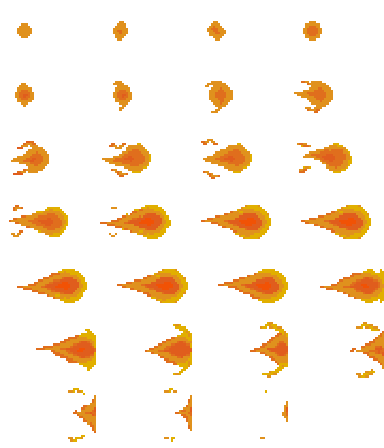
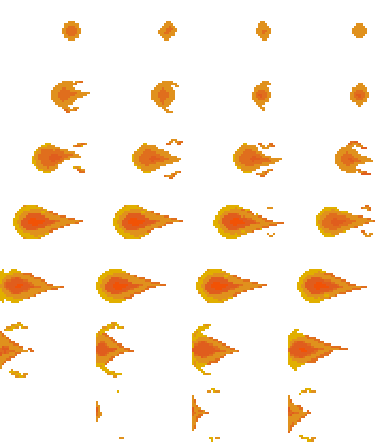
prep for merge

diff --git a/src/main.rs b/src/main.rs
@@ -187,6 +187,8 @@ impl Game for ROGUELIKE {
 
 			// Should be switched to take in array of active fireballs, bullets, etc.
 			self.update_projectiles(&mut fireball);
+
+			// UPDATE PLAYER
 			self.draw_player(&count, &f_display, &mut player, &cur_bg);
 			count = count + 1;
 			if count > f_display * 5 {
@@ -331,7 +333,7 @@ impl ROGUELIKE {
 		// shoot fireball
 		if keystate.contains(&Keycode::F) && fireball.frame() == 0 {
 			fireball.set_use(true);
-			fireball.start_pos(player.x(), player.y(), player.facing_right);
+			fireball.start_pos(player.get_cam_pos().x(), player.get_cam_pos().y(), player.facing_right);
 		}
 	}
 
@@ -346,7 +348,7 @@ impl ROGUELIKE {
 				fireball.set_frame(0);
 			}
 			// this needs to be mirrored
-			self.core.wincan.copy(fireball.texture(), fireball.src(4, 7), fireball.pos()).unwrap();
+			self.core.wincan.copy_ex(fireball.texture(), fireball.src(4, 7), fireball.pos(), 0.0, None, fireball.facing_right, false).unwrap();
 		}
 	}
 
@@ -354,27 +356,19 @@ impl ROGUELIKE {
 	// check collisions
 	fn check_collisions(player: &mut Player, enemies: &mut Vec<Enemy>) {
 		for enemy in enemies {
-			if check_collision(&player.pos(), &enemy.pos())
-			{
+			if check_collision(&player.pos(), &enemy.pos()) {
 				player.minus_hp(5.0);
 				//println!("Health: {}", player.get_hp()); //for debugging
 			}
 
-			if check_collision(&player.pos(), &enemy.pos())
-			{
-				player.minus_hp(5.0);
-				//println!("Health: {}", player.get_hp()); //for debugging
-			}
-			if player.is_attacking
-			{
-				if check_collision(&player.get_attack_box(), &enemy.pos())
-				{
+			if player.is_attacking {
+				if check_collision(&player.get_attack_box(), &enemy.pos()) {
 					enemy.knockback(player.x().into(), player.y().into(), XBOUNDS, YBOUNDS);
 					enemy.minus_hp(1.0);
 				}
 			}
 		}
-		//player.set_invincible_f()
+		player.set_invincible();
 	}
 
 	// update player
@@ -435,31 +429,15 @@ impl ROGUELIKE {
 	pub fn draw_player(&mut self, count: &i32, f_display: &i32, player: &mut Player, cur_bg: &Rect) {
 		player.set_cam_pos(cur_bg.x(), cur_bg.y());
 
-		// I think it looks better when doing this constantly, we can keep 
+		// I think it looks better when doing animation constantly, we can keep 
 		// the if statement if we decide to add a specific moving animation
 
 		//if !player.is_still {
-			//display animation when not moving
-			if count < &f_display { player.set_src(0 as i32, 0 as i32); }
-			else if count < &(f_display * 2) { player.set_src(64 as i32, 0 as i32); }
-			else if count < &(f_display * 3) { player.set_src(128 as i32, 0 as i32); }
-			else if count < &(f_display * 4) { player.set_src(0 as i32, 64 as i32); }
-			else if count < &(f_display * 5) { player.set_src(64 as i32, 64 as i32); }
-			else if count < &(f_display * 6) { player.set_src(128 as i32, 64 as i32); }
-			else if count < &(f_display * 7) { player.set_src(0 as i32, 128 as i32); }
-			else if count < &(f_display * 8) { player.set_src(64 as i32, 128 as i32); }
-			else if count < &(f_display * 9) { player.set_src(128 as i32, 128 as i32); }
-			else if count < &(f_display * 10) { player.set_src(0 as i32, 192 as i32); }
-			else if count < &(f_display * 11) { player.set_src(64 as i32, 192 as i32); }
-			else if count < &(f_display * 12) { player.set_src(128 as i32, 192 as i32); }
-			else { player.set_src(0, 0); }
-
-			self.core.wincan.copy_ex(player.texture_all(), player.src(), player.get_cam_pos(), 0.0, None, player.facing_right, false).unwrap();
+			player.get_frame_display(count, f_display);
 		/*} else {
 			player.set_src(0, 0);
-			self.core.wincan.copy_ex(player.texture_all(), player.src(), player.get_cam_pos(), 0.0, None, player.facing_right, false).unwrap();
 		}*/
-		//println!("\nx:{} y:{} ", player.x(), player.y());
+		self.core.wincan.copy_ex(player.texture_all(), player.src(), player.get_cam_pos(), 0.0, None, player.facing_right, false).unwrap();
 	}
 
 

diff --git a/src/player.rs b/src/player.rs
@@ -7,7 +7,7 @@ use sdl2::render::Texture;
 const TILE_SIZE: u32 = 64;
 const ATTACK_LENGTH: u32 = TILE_SIZE * 3 / 2;
 const COOLDOWN: u128 = 250;
-const DMG_COOLDOWN: u128 = 1000;
+const DMG_COOLDOWN: u128 = 800;
 
 pub struct Player<'a> {
 	pos: (i32, i32),
@@ -21,6 +21,7 @@ pub struct Player<'a> {
 	attack_timer: Instant,
 	damage_timer: Instant,
 	texture_all: Texture<'a>,
+	invincible: bool, 
 	pub facing_right: bool,
 	pub is_still: bool,
 	pub hp: f32,
@@ -47,6 +48,7 @@ impl<'a> Player<'a> {
 		let attack_box = Rect::new(0, 0, TILE_SIZE, TILE_SIZE);
 		let attack_timer = Instant::now();
 		let damage_timer = Instant::now();
+		let invincible = true;
 		Player {
 			pos,
 			cam_pos,
@@ -58,6 +60,7 @@ impl<'a> Player<'a> {
 			attack_box,
 			attack_timer,
 			damage_timer,
+			invincible, 
 			texture_all,
 			facing_right,
 			is_still,
@@ -124,6 +127,22 @@ impl<'a> Player<'a> {
 
 	pub fn src(&self) -> Rect {
 		self.src
+	}
+
+	pub fn get_frame_display(&mut self, count: &i32, f_display: &i32) {
+		if count < &f_display { self.set_src(0 as i32, 0 as i32); }
+		else if count < &(f_display * 2) { self.set_src(64 as i32, 0 as i32); }
+		else if count < &(f_display * 3) { self.set_src(128 as i32, 0 as i32); }
+		else if count < &(f_display * 4) { self.set_src(0 as i32, 64 as i32); }
+		else if count < &(f_display * 5) { self.set_src(64 as i32, 64 as i32); }
+		else if count < &(f_display * 6) { self.set_src(128 as i32, 64 as i32); }
+		else if count < &(f_display * 7) { self.set_src(0 as i32, 128 as i32); }
+		else if count < &(f_display * 8) { self.set_src(64 as i32, 128 as i32); }
+		else if count < &(f_display * 9) { self.set_src(128 as i32, 128 as i32); }
+		else if count < &(f_display * 10) { self.set_src(0 as i32, 192 as i32); }
+		else if count < &(f_display * 11) { self.set_src(64 as i32, 192 as i32); }
+		else if count < &(f_display * 12) { self.set_src(128 as i32, 192 as i32); }
+		else { self.set_src(0, 0); }
 	}
 
 	pub fn pos(&self) -> Rect {
@@ -209,10 +228,22 @@ impl<'a> Player<'a> {
 	}
 
 	pub fn minus_hp(&mut self, dmg: f32) {
-		if self.get_damage_timer() < DMG_COOLDOWN {
+		if self.invincible {
 			return;
 		}
 		self.hp -= dmg;
 		self.damage_timer = Instant::now();
+	}
+
+	pub fn set_invincible(&mut self){
+		if self.get_damage_timer() < DMG_COOLDOWN {
+			 self.invincible = true; 
+		} else {
+			self.invincible = false;
+		}
+	}
+
+	pub fn get_invincible(&self) -> bool {
+		self.invincible
 	}
 }

diff --git a/src/ranged_attack.rs b/src/ranged_attack.rs
@@ -8,33 +8,33 @@ pub struct RangedAttack<'a> {
 	start_p: Rect, 
 	pos: Rect,
 	use_ability: bool,
-	pub facing_left: bool,
+	pub facing_right: bool,
 	frame: i32,
     texture: Texture<'a>,
 }
 
  impl<'a> RangedAttack<'a> {
-	pub fn new(pos: Rect, use_ability:bool, facing_left: bool, frame:i32, texture: Texture<'a>) -> RangedAttack<'a> {
+	pub fn new(pos: Rect, use_ability:bool, facing_right: bool, frame:i32, texture: Texture<'a>) -> RangedAttack<'a> {
 		let start_p = Rect::new(0, 0, TILE_SIZE, TILE_SIZE);
 		RangedAttack {
 			start_p, 
 			pos,	
 			use_ability,
-			facing_left,
+			facing_right,
 			frame,
 			texture, 
 		}
 	}
 
-	pub fn start_pos(&mut self, x:i32, y:i32, fl:bool) {
-		if fl {
-			self.facing_left = true;
-			self.start_p.x = x-64;
-			self.pos.x = x-64;
-		}else{
-			self.facing_left = false;
+	pub fn start_pos(&mut self, x:i32, y:i32, fr:bool) {
+		if fr {
+			self.facing_right = true;
 			self.start_p.x = x+64;
 			self.pos.x = x+64;
+		}else{
+			self.facing_right = false;
+			self.start_p.x = x-64;
+			self.pos.x = x-64;
 		}
 		self.start_p.y = y;
 		self.pos.y = y;
@@ -79,10 +79,10 @@ pub struct RangedAttack<'a> {
 			self.pos.set_x((self.x()).clamp(x_bounds.0, x_bounds.1));
 		// growing / loop 
 		} else {
-			if self.facing_left {
-				self.pos.set_x((self.start_p.x -(self.frame-6)*4 ).clamp(x_bounds.0, x_bounds.1));
+			if self.facing_right {
+				self.pos.set_x((self.start_p.x + (self.frame-6)*4 ).clamp(x_bounds.0, x_bounds.1));
 			}else{
-				self.pos.set_x((self.start_p.x +(self.frame-6)*4 ).clamp(x_bounds.0, x_bounds.1));
+				self.pos.set_x((self.start_p.x - (self.frame-6)*4 ).clamp(x_bounds.0, x_bounds.1));
 			}
 		}
 	}
